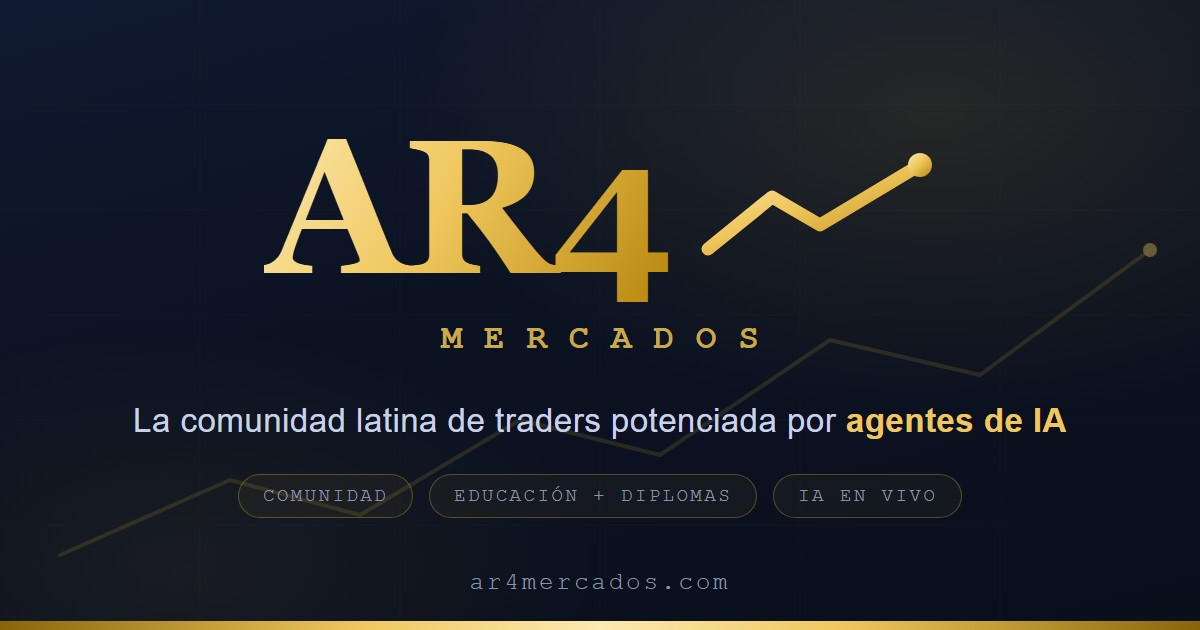
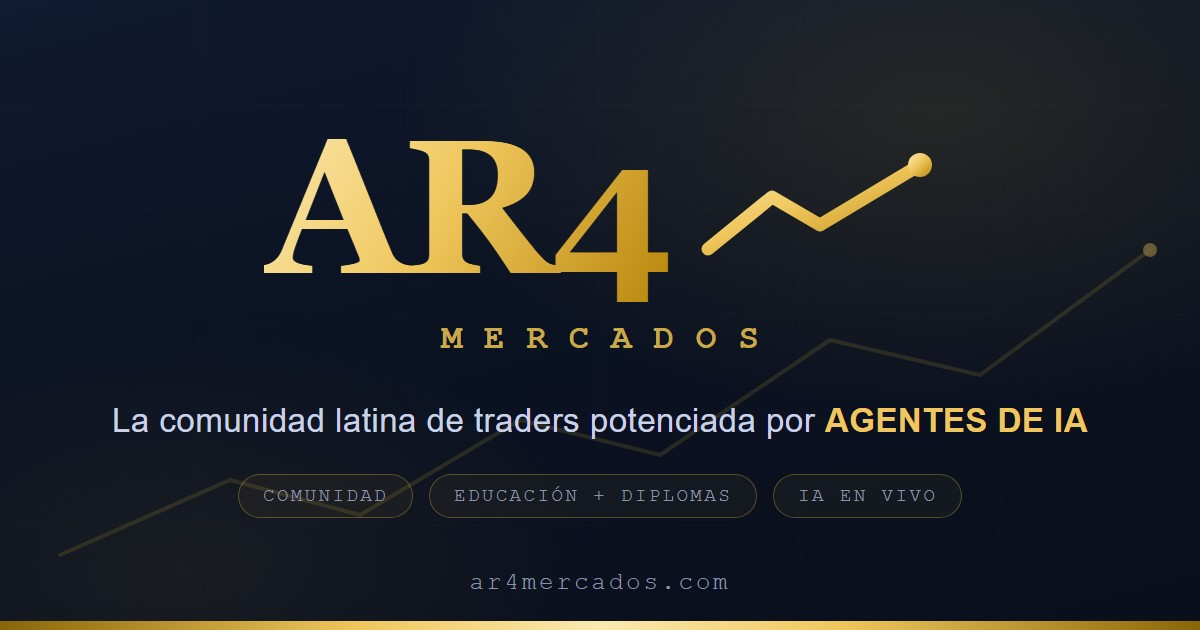
AGENTES DE IA en mayusculas: imagen OG y titular del hero (title/og:title quedan en minuscula por SEO)

Changed region(s): [[0.0925, 0.6333, 0.925, 0.6937]]

diff --git a/index.html b/index.html
@@ -82,7 +82,7 @@
   <div class="container hero-grid">
     <div class="hero-text">
       <span class="eyebrow">Brokers · Comunidad · Inteligencia Artificial · Latinoamérica</span>
-      <h1>La comunidad de traders <span class="gold">potenciada por agentes de IA</span> que analizan el mercado por ti</h1>
+      <h1>La comunidad de traders <span class="gold">potenciada por AGENTES DE IA</span> que analizan el mercado por ti</h1>
       <p>Reviews imparciales de brokers y cuentas de fondeo, más una comunidad activa de traders en Latinoamérica con agentes de inteligencia artificial que analizan millones de datos de mercado cada segundo — ideas, alertas y análisis, en un solo lugar.</p>
       <div class="hero-actions">
         <a href="comunidad.html" class="btn btn-gold">Entrar a la comunidad</a>